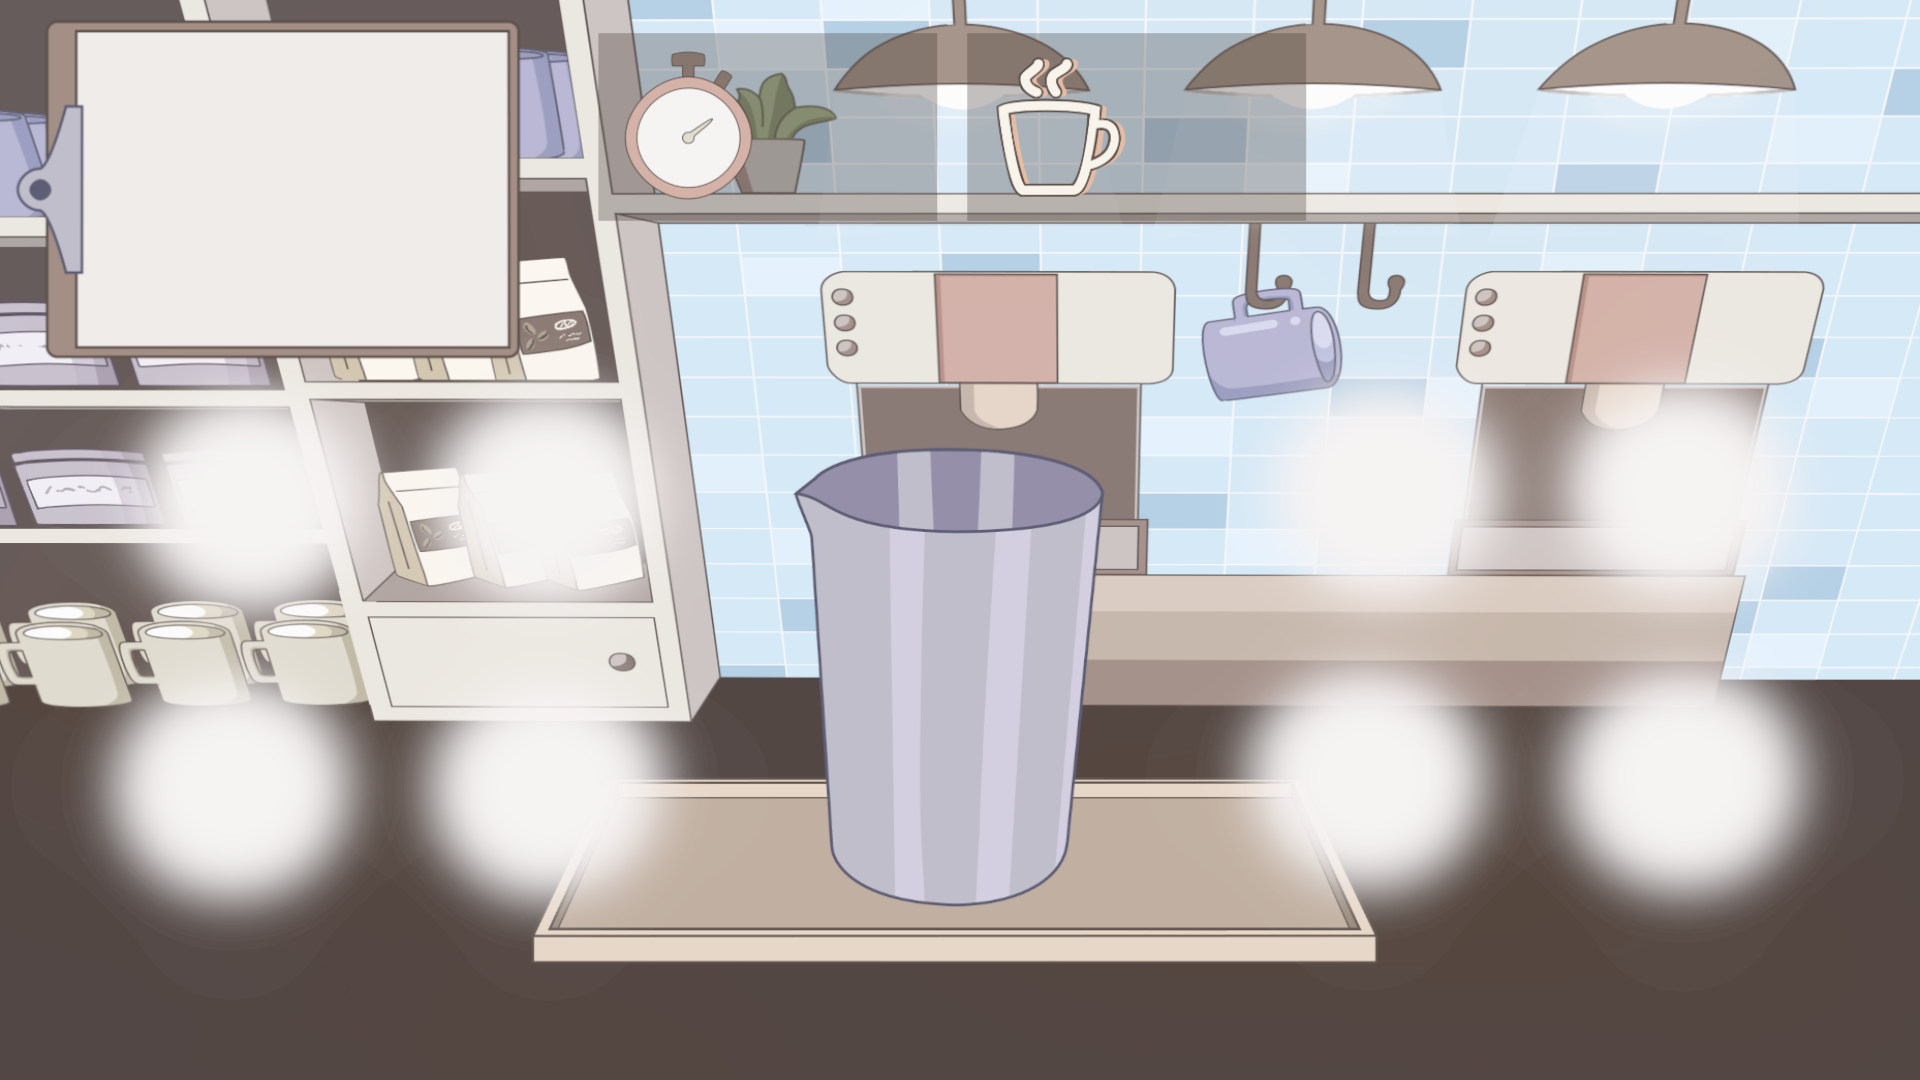
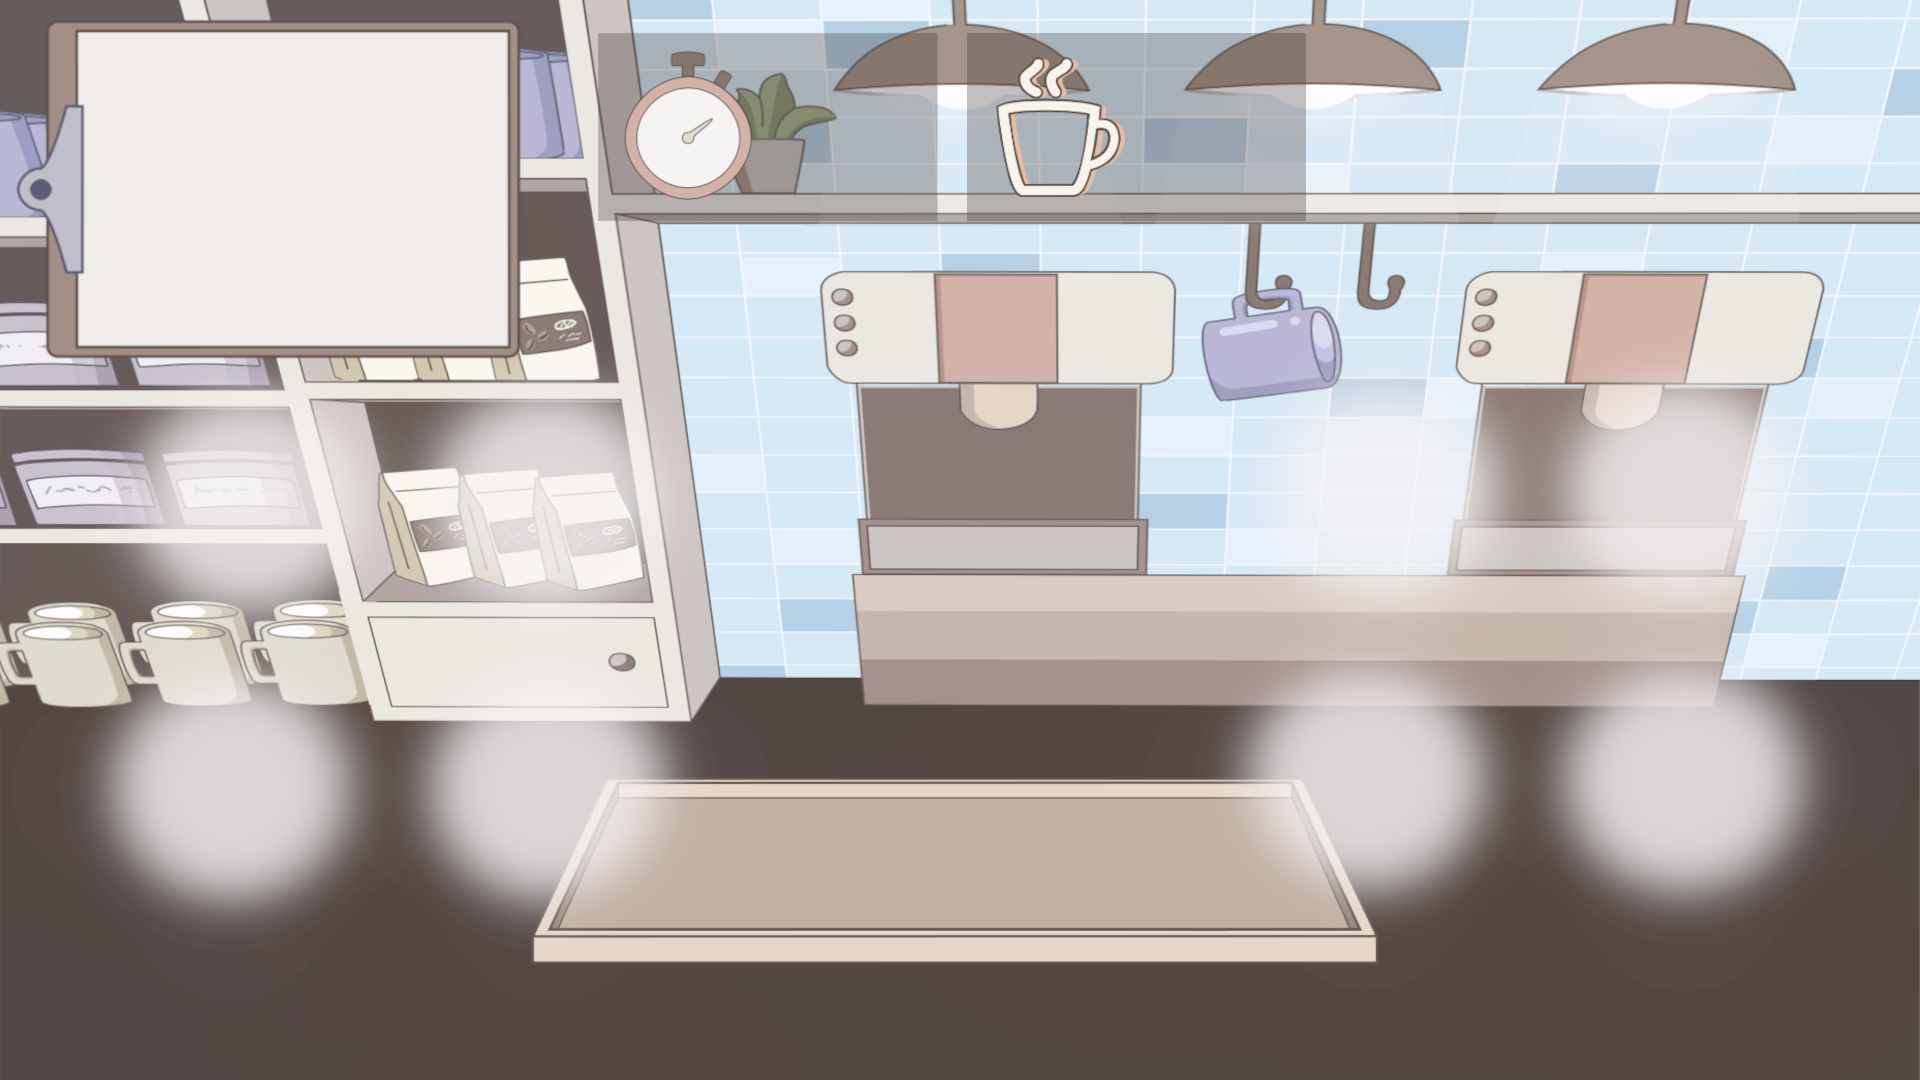
Updates to Assets and Game Screen

diff --git a/core/src/com/mygdx/game/GameAssets.java b/core/src/com/mygdx/game/GameAssets.java
@@ -48,6 +48,7 @@ public class GameAssets extends Game {
 	public static Texture Coffee;
 	public static Texture Milo;
 	public static Texture Ice;
+	public static Texture MixingCup;
 	public static Texture MixingCupFront;
 	public static Texture ServeDrinkIcon;
 	public static Texture DustbinIcon;
@@ -174,6 +175,7 @@ public class GameAssets extends Game {
 		Coffee = new Texture(Gdx.files.internal("Texture/Ingredients/Coffee.png"));
 		Milo = new Texture(Gdx.files.internal("Texture/Ingredients/Milo.png"));
 		Ice = new Texture(Gdx.files.internal("Texture/Ingredients/Ice.png"));
+		MixingCup = new Texture(Gdx.files.internal("Texture/Ingredients/MixingCup.png"));
 		MixingCupFront = new Texture(Gdx.files.internal("Texture/Ingredients/MixingCupFront.png"));
 		
 		Pour = new Texture[8];
@@ -288,6 +290,7 @@ public class GameAssets extends Game {
 		Coffee.dispose();
 		Milo.dispose();
 		Ice.dispose();
+		MixingCup.dispose();
 		MixingCupFront.dispose();
 		
 		for (Texture texture : Pour) {

diff --git a/core/src/com/mygdx/game/GameScreen.java b/core/src/com/mygdx/game/GameScreen.java
@@ -65,6 +65,8 @@ public class GameScreen extends ScreenAdapter {
 		GameAssets.batch.draw(GameAssets.CafeBg, 0, 0); // draw background image
 		
 		RenderDrinkCount(); //render ingredients requirements
+		GameAssets.batch.draw(GameAssets.MixingCup, 793 , 173);
+		
 		RenderMathableUI(); //render timer + score
 
 		// render interactive buttons
